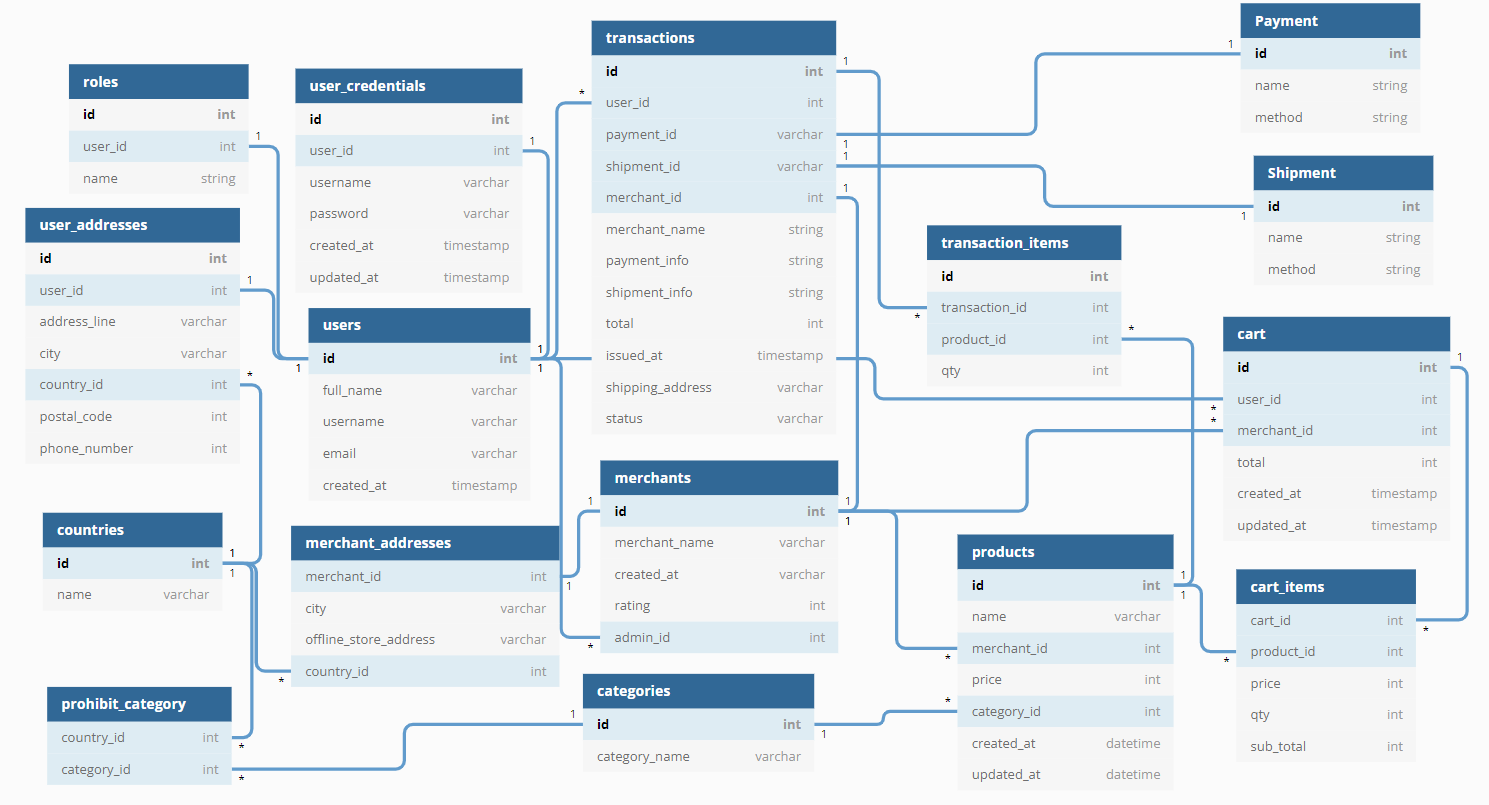
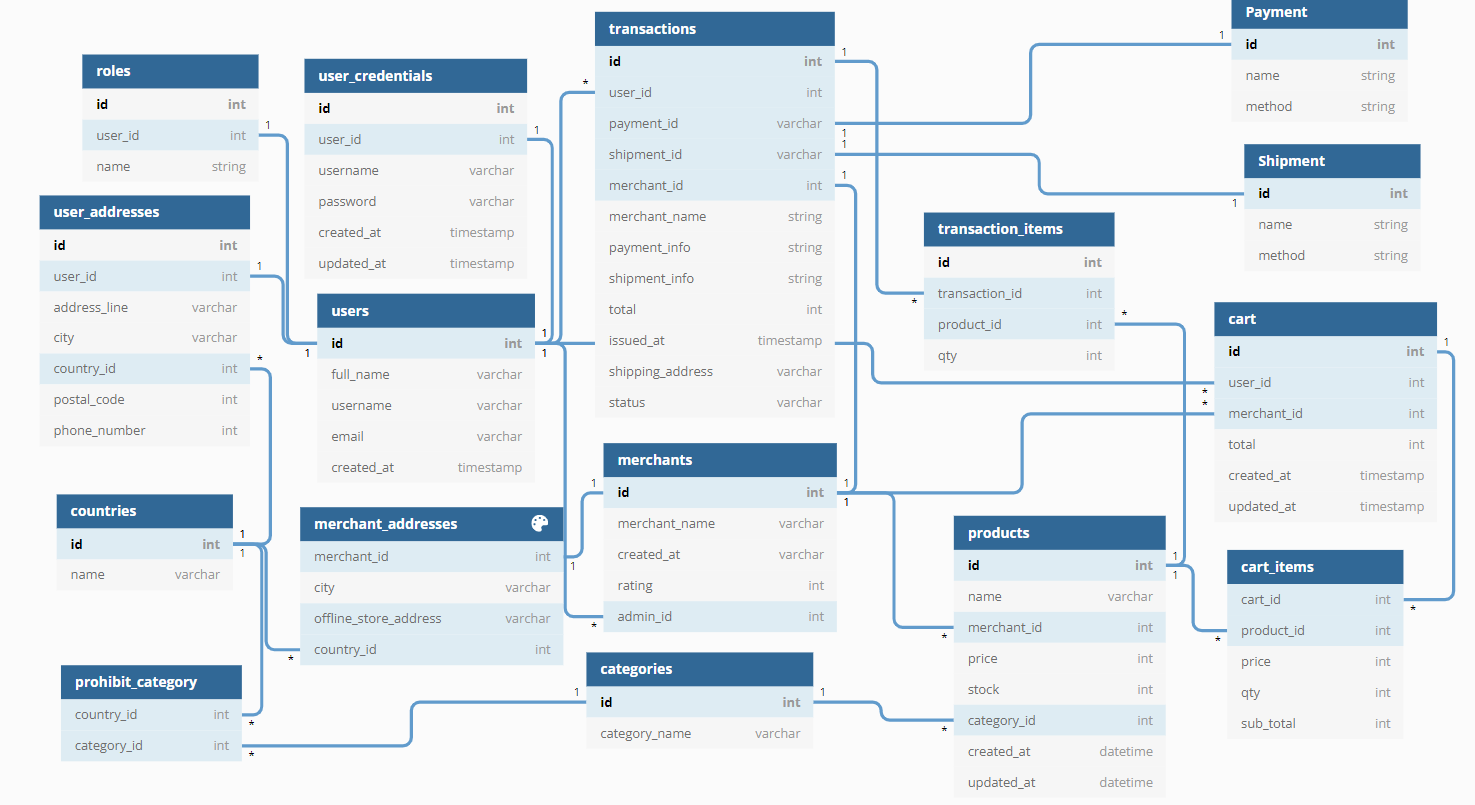
add feature to products of a merchant

Changed region(s): [[0.0, 0.0, 0.998, 0.9938], [0.0, 0.3416, 0.0936, 0.559], [0.7485, 0.8385, 0.7797, 0.9938]]

diff --git a/docs/docs.go b/docs/docs.go
@@ -905,6 +905,50 @@ const docTemplate = `{
                 }
             }
         },
+        "/merchants/{id}/products": {
+            "get": {
+                "description": "Get all avalaible merchants.",
+                "produces": [
+                    "application/json"
+                ],
+                "tags": [
+                    "Merchant"
+                ],
+                "summary": "Get all avalaible merchants.",
+                "parameters": [
+                    {
+                        "type": "integer",
+                        "description": "merchant id",
+                        "name": "id",
+                        "in": "path",
+                        "required": true
+                    }
+                ],
+                "responses": {
+                    "200": {
+                        "description": "OK",
+                        "schema": {
+                            "allOf": [
+                                {
+                                    "$ref": "#/definitions/utils.RespWithData"
+                                },
+                                {
+                                    "type": "object",
+                                    "properties": {
+                                        "data": {
+                                            "type": "array",
+                                            "items": {
+                                                "$ref": "#/definitions/models.ProductOutput"
+                                            }
+                                        }
+                                    }
+                                }
+                            ]
+                        }
+                    }
+                }
+            }
+        },
         "/register": {
             "post": {
                 "description": "registering a new user",
@@ -1485,6 +1529,20 @@ const docTemplate = `{
                 },
                 "rating": {
                     "type": "number"
+                }
+            }
+        },
+        "models.ProductOutput": {
+            "type": "object",
+            "properties": {
+                "id": {
+                    "type": "integer"
+                },
+                "name": {
+                    "type": "string"
+                },
+                "price": {
+                    "type": "integer"
                 }
             }
         },

diff --git a/models/sql/dummies.go b/models/sql/dummies.go
@@ -24,10 +24,10 @@ var MerchantAddresses = []MerchantAddress{
 }
 
 var Products = []Product{
-	{Name: "Indomi Sedap", Desc: "Mie goreng pilihan nomer #1 di Indonesia", Price: 2700, CategoryID: 1},
-	{Name: "Indomi Kuah Ayam", Desc: "Menggunakan kaldu ayam asli, Indomi Kuah Ayam siap memulai aktifitas kamu agar semakin berwarna ", Price: 2900, CategoryID: 1},
-	{Name: "Levono Thinklad 260x", Desc: "Second like new Ex-Singapore, mulus 98.99%. i5-6200u, RAM DDR4 8GB, SSD SATA 256GB", Price: 3900000, CategoryID: 5},
-	{Name: "Oxadon Oye", Desc: "Meredakan gejala flu dan sakil kepala ringan", Price: 1500, CategoryID: 10},
-	{Name: "Sumsang Ultra Max 12", Desc: "Six cameras, 16GB RAM, 5000mAh Battery , and SnapNaga gen 1", Price: 12000000, CategoryID: 4},
-	{Name: "Kukira kau home", Desc: "Novel best seller dari Mamank Garox ke-12, Menceritakan tentang pahitnya minum obat.", Price: 54000, CategoryID: 12},
+	{Name: "Indomi Sedap", Desc: "Mie goreng pilihan nomer #1 di Indonesia", Price: 2700, CategoryID: 1, Stock: 10},
+	{Name: "Indomi Kuah Ayam", Desc: "Menggunakan kaldu ayam asli, Indomi Kuah Ayam siap memulai aktifitas kamu agar semakin berwarna ", Price: 2900, CategoryID: 1, Stock: 100},
+	{Name: "Levono Thinklad 260x", Desc: "Second like new Ex-Singapore, mulus 98.99%. i5-6200u, RAM DDR4 8GB, SSD SATA 256GB", Price: 3900000, CategoryID: 5, Stock: 1},
+	{Name: "Oxadon Oye", Desc: "Meredakan gejala flu dan sakil kepala ringan", Price: 1500, CategoryID: 10, Stock: 100},
+	{Name: "Sumsang Ultra Max 12", Desc: "Six cameras, 16GB RAM, 5000mAh Battery , and SnapNaga gen 1", Price: 12000000, CategoryID: 4, Stock: 2},
+	{Name: "Kukira kau home", Desc: "Novel best seller dari Mamank Garox ke-12, Menceritakan tentang pahitnya minum obat.", Price: 54000, CategoryID: 12, Stock: 100},
 }

diff --git a/models/sql/product.go b/models/sql/product.go
@@ -1,6 +1,10 @@
 package models
 
-import "gorm.io/gorm"
+import (
+	wmodels "anya-day/models/web"
+
+	"gorm.io/gorm"
+)
 
 type (
 	Product struct {
@@ -9,8 +13,23 @@ type (
 		MerchantID uint   `gorm:"not null"`
 		Price      uint   `gorm:"not null"`
 		Desc       string
+		Stock      uint     `gorm:"not null"`
 		CategoryID uint     `gorm:"not null"`
 		Merchant   Merchant `gorm:"constraint:OnDelete:CASCADE"`
 		Category   Category
 	}
 )
+
+func GetMerchantProducts(db *gorm.DB, data *[]wmodels.ProductOutput, m *Merchant) error {
+	db.First(m)
+
+	if err := db.
+		Model(&Product{}).
+		Select("id", "name", "price").
+		Where("merchant_id = ?", m.ID).
+		Find(data).Error; err != nil {
+		return err
+	}
+
+	return nil
+}

diff --git a/routes/routes.go b/routes/routes.go
@@ -81,6 +81,11 @@ func InitRoute(db *gorm.DB) *gin.Engine {
 	merchant.DELETE("/:id", controllers.DeleteMerchantById)
 	merchant.PUT("/:id", controllers.PutMerchantById)
 
+	// /products
+	api.GET("/merchants/:id/products", controllers.GetProductsByMerchantId)
+	products := api.Group("/merchants/:id/products")
+	products.Use(middleware.JWTMerchantMiddleware())
+
 	// swagger route
 	r.GET("/swagger/*any", ginSwagger.WrapHandler(swaggerFiles.Handler))
 
